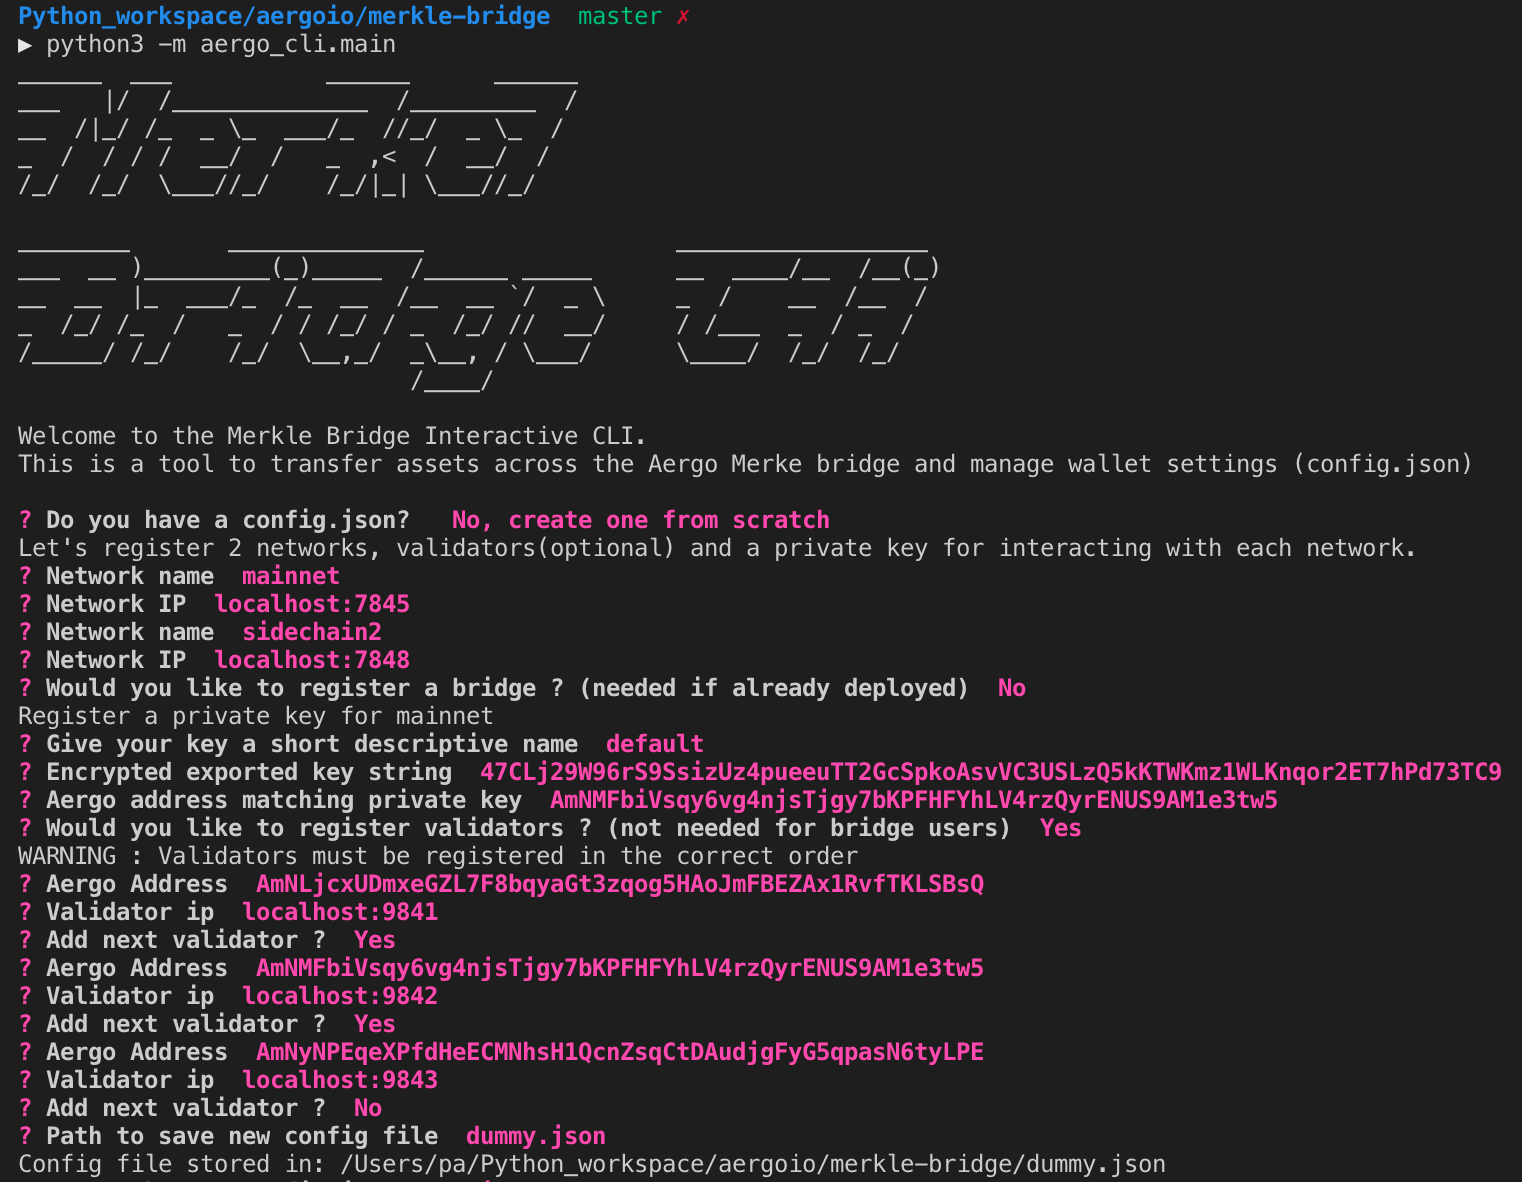
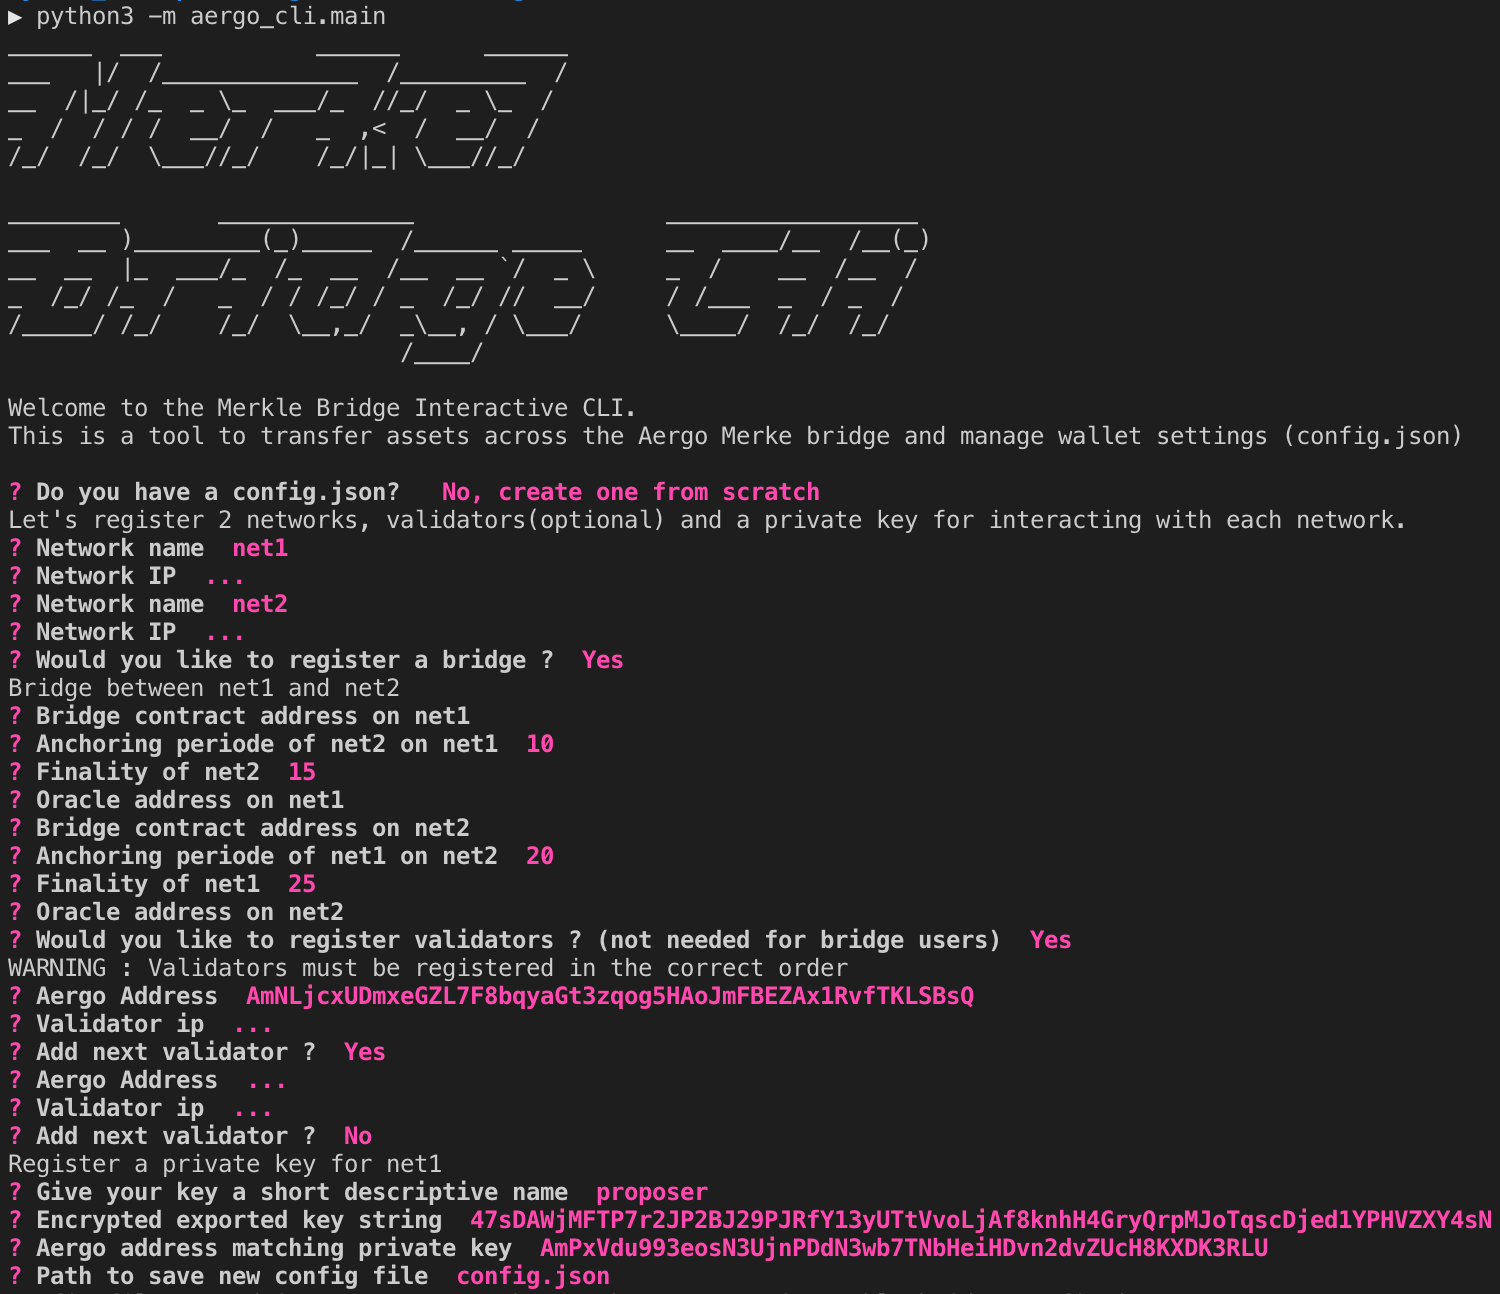
update bridge deployment docs

Changed region(s): [[0.0, 0.0, 1.0, 1.0], [0.4293, 0.1827, 0.6133, 0.2741]]

diff --git a/aergo_cli/main.py b/aergo_cli/main.py
@@ -296,8 +296,8 @@ class MerkleBridgeCli():
             'bridges': {}
         }
         # Register bridge contracts on each network
-        if promptYN('Would you like to register a bridge ? '
-                    '(needed if already deployed)', 'Yes', 'No'):
+        if promptYN('Would you like to register a bridge ?',
+                    'Yes', 'No'):
             answers = prompt_new_bridge(net1, net2)
             new_config['networks'][net1]['bridges'] = {
                 net2: {'addr': answers['bridge1'],
@@ -313,12 +313,6 @@ class MerkleBridgeCli():
                        'oracle': answers['oracle2']
                        }
             }
-        # Register a new private key
-        new_config['wallet'] = {}
-        print("Register a private key for {}".format(net1))
-        name, addr, privkey = prompt_aergo_privkey()
-        new_config['wallet'][name] = {"addr": addr,
-                                      "priv_key": privkey}
 
         # Register bridge validators
         if promptYN('Would you like to register validators ? '
@@ -327,6 +321,13 @@ class MerkleBridgeCli():
             new_config['validators'] = validators
         else:
             new_config['validators'] = {}
+
+        # Register a new private key
+        new_config['wallet'] = {}
+        print("Register a private key for {}".format(net1))
+        name, addr, privkey = prompt_aergo_privkey()
+        new_config['wallet'][name] = {"addr": addr,
+                                      "priv_key": privkey}
 
         questions = [
             {

diff --git a/docs/source/contracts.rst b/docs/source/contracts.rst
@@ -1,14 +1,39 @@
 Deploying a new bridge
 ======================
 
-Before using the bridge deployer, a config file should be created to register network node connections,
-bridge tempos (anchoring periode and finality) and validators.
+Process
+-------
+1- Each Validator generates a private key and address to sign bridge messages (anchors, settings update...) and shares the address and validator ip with the bridge Proposer.
+
+2- Proposer creates a config.json file draft. (See `Create a new config file`_ below).
+
+3- Proposer deploys the eth-merkle-bridge.lua contract on bridged networks (See `Deploy the bridge contracts`_ below).
+
+4- Proposer deploys the oracle.lua on both networks and transfers bridge controle to oracles (See `Transfer control of the bridge to the multisig oracle`_ below).
+
+5- Proposer removes his private key registered in config.json, and shares config.json with Validators.
+
+6- Each Validator adds his private key to his config.json.
+
+7- The Validators start validating (see validator docs) with the correct validator index (see position of validator in config.json).
+
+8- Proposer starts operating the bridge (see proposer docs).
+
+
+Create a new config file
+------------------------
+A config file can be created with the cli tool or manually.
 
 .. image:: images/scratch.png
 
+
+Deploy the bridge contracts
+---------------------------
+The sender of the deployment tx will be the bridge owner. Ownership is then transfered to the multisig oracle.
+
 .. code-block:: bash
 
-    $ python3 -m aergo_bridge_operator.bridge_deployer --help                                                                                                                                                                           18h17m ⚑ ◒  
+    $ python3 -m aergo_bridge_operator.bridge_deployer --help
 
         usage: bridge_deployer.py [-h] -c CONFIG_FILE_PATH --net1 NET1 --net2 NET2
                                 [--privkey_name PRIVKEY_NAME] [--local_test]
@@ -26,8 +51,9 @@ bridge tempos (anchoring periode and finality) and validators.
         --local_test          Start all validators locally for convenient testing
 
 
-    $ python3 -m bridge_operator.bridge_deployer -c './test_config.json' -a 'aergo-local' -e eth-poa-local --t_anchor_aergo 6 --t_final_aergo 4 --t_anchor_eth 7 --t_final_eth 5 --privkey_name "proposer"
+    $ python3 -m aergo_bridge_operator.bridge_deployer -c './test_config.json' --net1 'mainnet' --net2 'sidechain2' --privkey_name "proposer"
 
+        DEPLOY BRIDGE
         Decrypt exported private key 'proposer'
         Password: 
         ------ DEPLOY BRIDGE BETWEEN mainnet & sidechain2 -----------
@@ -35,11 +61,57 @@ bridge tempos (anchoring periode and finality) and validators.
         ------ Set Sender Account -----------
         > Sender Address: AmPxVdu993eosN3UjnPDdN3wb7TNbHeiHDvn2dvZUcH8KXDK3RLU
         ------ Deploy SC -----------
-        validators :  ['AmNLjcxUDmxeGZL7F8bqyaGt3zqog5HAoJmFBEZAx1RvfTKLSBsQ', 'AmNLjcxUDmxeGZL7F8bqyaGt3zqog5HAoJmFBEZAx1RvfTKLSBsQ', 'AmNLjcxUDmxeGZL7F8bqyaGt3zqog5HAoJmFBEZAx1RvfTKLSBsQ']
-            > result[G3eppLMXZR29apc8tUie9D8fb19QdB9aYeqHpfRodRzP] : TX_OK
-            > result[BfSLueLYFXgXHwDJobMgYakyBgoWyKy6oAo9sQvQdeMn] : TX_OK
+            > result[G412HSrJUKbEL3P5QLuXn7mt5DxkGvdwMgmdujQz1w3W] : TX_OK
+            > result[HVtjZC4r3fB3PYztJjLsmnfdnA29i17aJHLVwebYoX2v] : TX_OK
         ------ Check deployment of SC -----------
-        > SC Address CHAIN1: AmhmKmDGmPSrV6DVckcQbRHmtdf6UjU26L2jY4PCQhWVFopu6zks
-        > SC Address CHAIN2: AmfycTw3Qofd31RwwmMQHHbkP1Rf1MUhT8L93JFQkhpynvTZendk
+        > Bridge Address mainnet: AmgQqVWX3JADRBEVkVCM4CyWdoeXuumeYGGJJxEeoAukRC26hxmw
+        > Bridge Address sidechain2: AmgQqVWX3JADRBEVkVCM4CyWdoeXuumeYGGJJxEeoAukRC26hxmw
         ------ Store bridge addresses in config.json  -----------
+        ------ Disconnect AERGO -----------
+
+
+Transfer control of the bridge to the multisig oracle
+-----------------------------------------------------
+
+The oracle_deployer script will deploy the oracle contract (with validators previously registered in config.json),
+and transfer ownership to the newly deployed contract.
+
+.. code-block:: bash
+
+    $ python3 -m aergo_bridge_operator.oracle_deployer --help
+
+        DEPLOY ORACLE
+        usage: oracle_deployer.py [-h] -c CONFIG_FILE_PATH --net1 NET1 --net2 NET2
+                                [--privkey_name PRIVKEY_NAME] [--local_test]
+
+        Deploy oracle contracts to controle the bridge between 2 Aergo networks.
+
+        optional arguments:
+        -h, --help            show this help message and exit
+        -c CONFIG_FILE_PATH, --config_file_path CONFIG_FILE_PATH
+                                Path to config.json
+        --net1 NET1           Name of Aergo network in config file
+        --net2 NET2           Name of Aergo network in config file
+        --privkey_name PRIVKEY_NAME
+                                Name of account in config file to sign anchors
+        --local_test          Start all validators locally for convenient testing
+
+    $ python3 -m aergo_bridge_operator.oracle_deployer -c './test_config.json' --net1 'mainnet' --net2 'sidechain2' --privkey_name "proposer"
+
+        DEPLOY ORACLE
+        Decrypt exported private key 'proposer'
+        Password: 
+        ------ DEPLOY ORACLE BETWEEN mainnet & sidechain2 -----------
+        ------ Connect AERGO -----------
+        ------ Set Sender Account -----------
+        > Sender Address: AmPxVdu993eosN3UjnPDdN3wb7TNbHeiHDvn2dvZUcH8KXDK3RLU
+        ------ Deploy SC -----------
+        validators :  ['AmNLjcxUDmxeGZL7F8bqyaGt3zqog5HAoJmFBEZAx1RvfTKLSBsQ', 'AmNLjcxUDmxeGZL7F8bqyaGt3zqog5HAoJmFBEZAx1RvfTKLSBsQ', 'AmNLjcxUDmxeGZL7F8bqyaGt3zqog5HAoJmFBEZAx1RvfTKLSBsQ']
+            > result[GG6THEXUbmj6E2SDxVri67iF1ExLeUoS5WRgCi5vH5zF] : TX_OK
+            > result[42dqiZrkb5tn6tDiNGL2ePdAd6akoVs3LVYytuD7iNR9] : TX_OK
+        ------ Check deployment of SC -----------
+        > Oracle Address mainnet: AmhXrQ7KdNA4naBi2sTwHj13aBzVBohRhxy262nXsPbV2YbULXUR
+        > Oracle Address sidechain2: AmhXrQ7KdNA4naBi2sTwHj13aBzVBohRhxy262nXsPbV2YbULXUR
+        ------ Store bridge addresses in config.json  -----------
+        ------ Transfer bridge control to oracles -----------
         ------ Disconnect AERGO -----------
